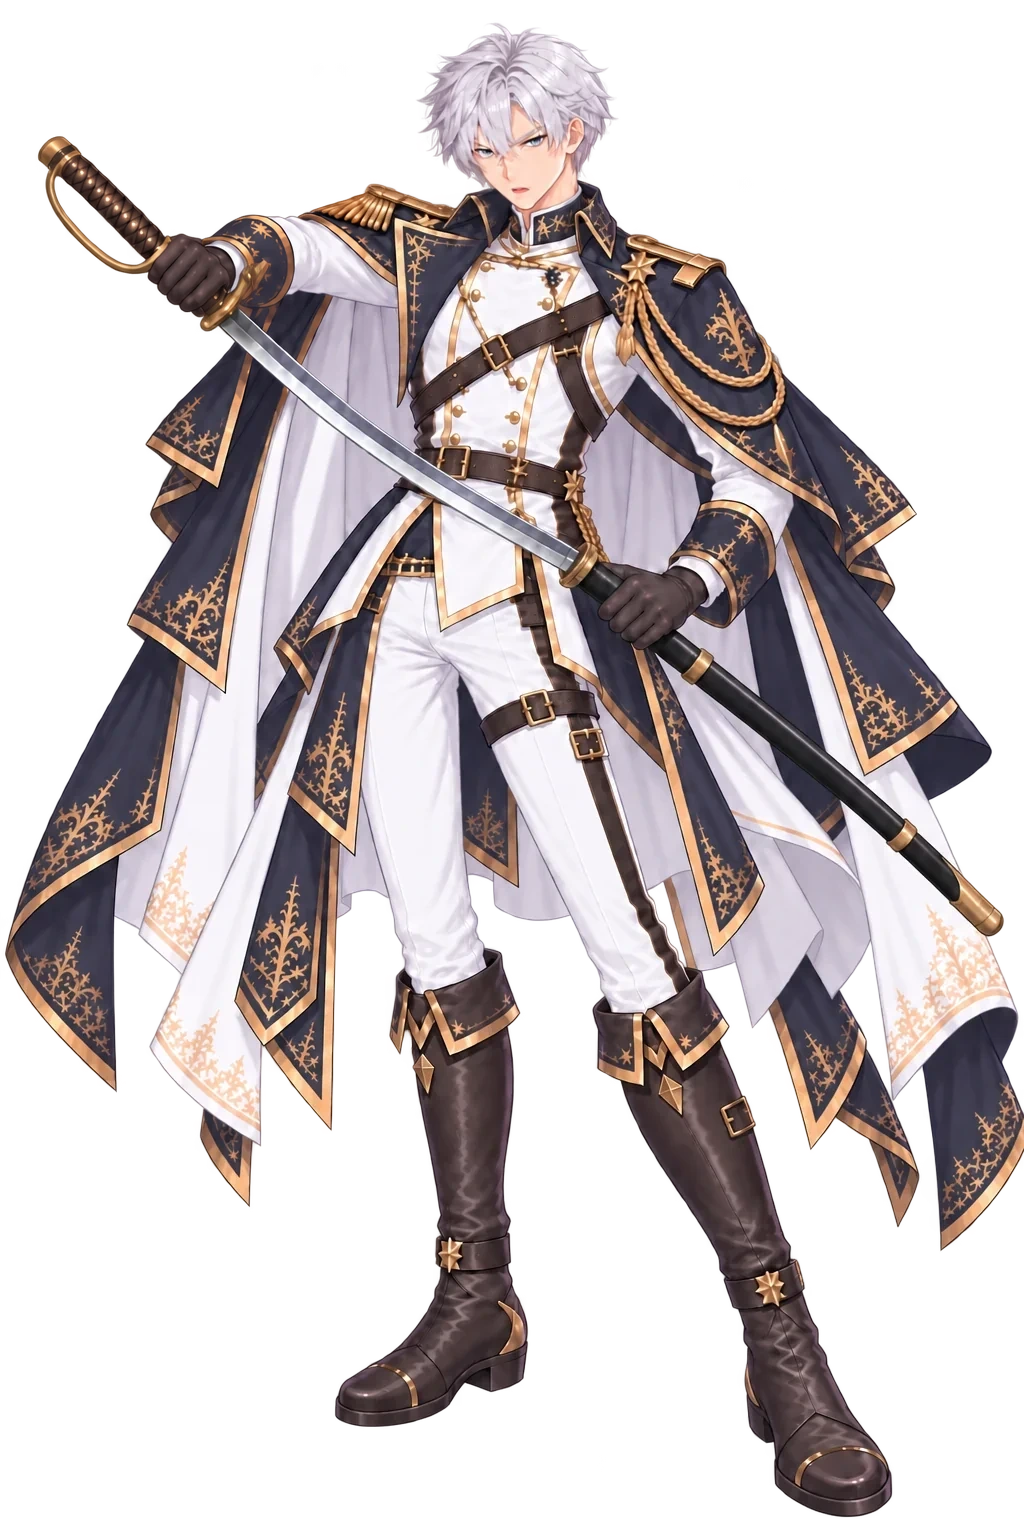
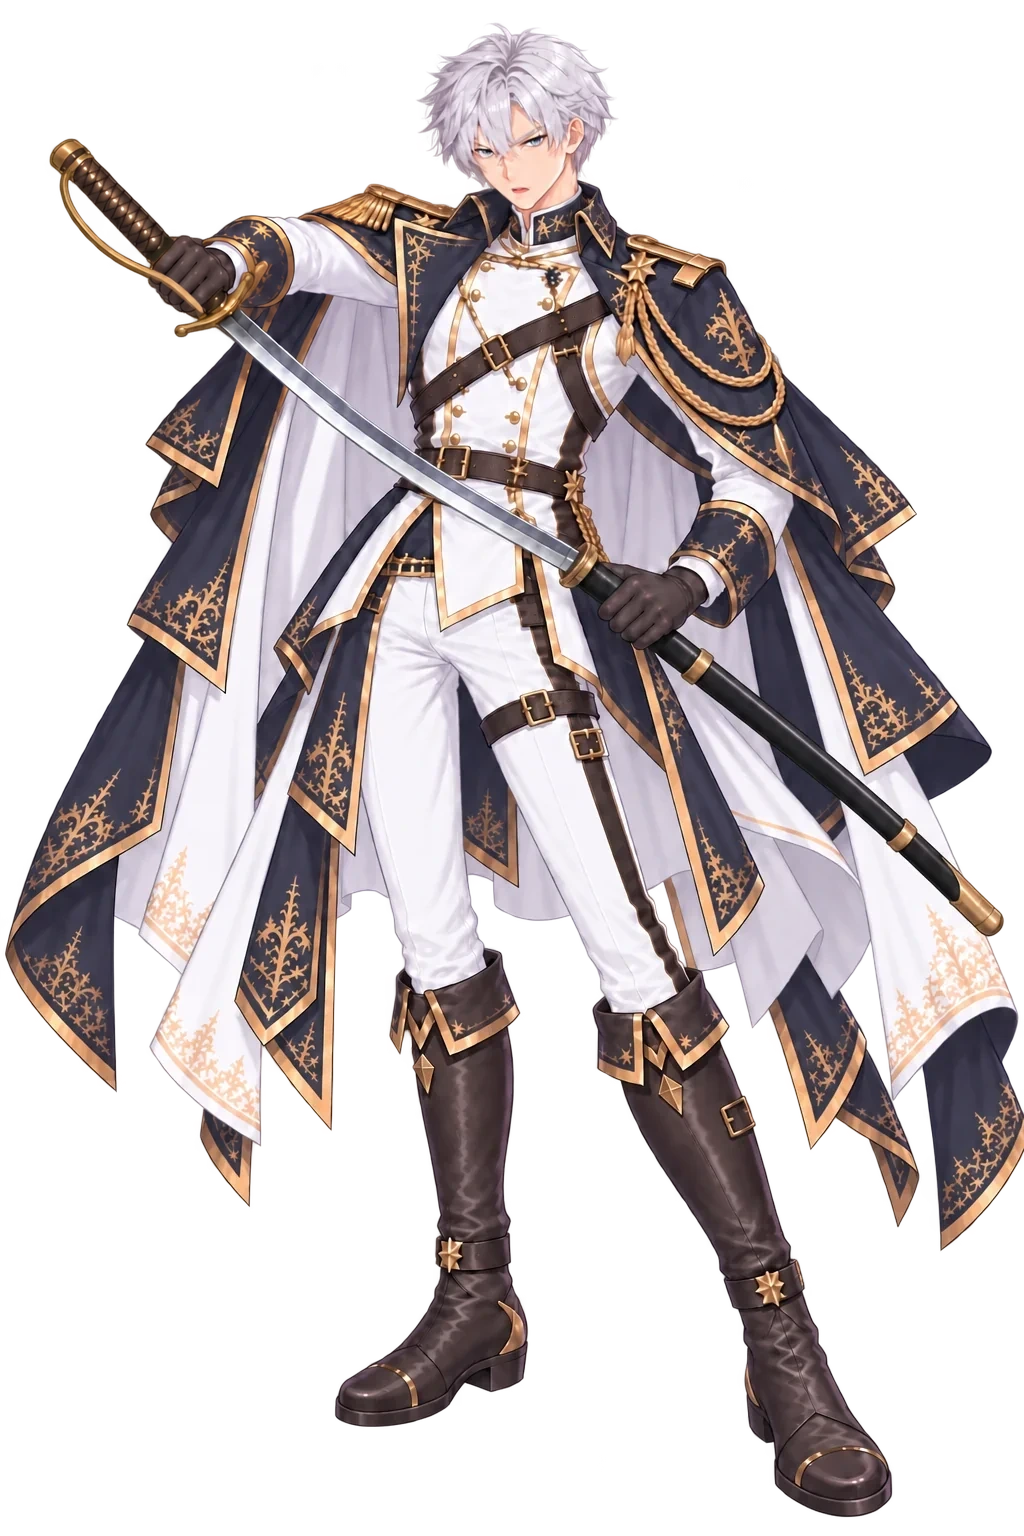
art(米夏): draw／drawopen 護手第四版 —— 弓經過指節前方接進鍔（照 Ray 畫線）
第三版的弓在拳頭左側就斷了。Ray 直接在刀柄裁圖上畫線：弓從柄頭掃下、
經過四指指節前方（手指與觀眾之間）、一路接進拳頭下方那片鍔。
把畫線圖上傳給 GPT、寫「照褐色線」，第四則一次過。

· 仍只拼刀柄＋拳頭區回原圖（臉 0 px、邊界帶色差 8.7、袖口無縫）
· q92 第二代、alpha 零誤差、近白 0%；top/bot 22/1516 不變
· v3 webp 走 recycle.sh；工單附三整理成四版病因＋驗收三件＋「附圖與文字要同一則送」的坑

⚠ 程式端要接：speakers.js draw ?v=2→3、drawopen 加 ?v=2（HANDOFF 標頭第 4 條已掛）

Changed region(s): [[0.0312, 0.0938, 0.375, 0.2812]]

diff --git a/resources/si/_misha_program_worklist.md b/resources/si/_misha_program_worklist.md
@@ -184,37 +184,39 @@ Ray 這一輪追加的一件 ＋ 早上留下的三件：
 ③ 我在這台先把提示詞送出、圖下載到 Windows 的 `~/Downloads`，Ray 手動搬進 repo 再由這邊量刀長／交件。
 
 
-## 附三、2026-09-24 晚（Windows 那台）：`draw` 護弓接到護手 —— ✔ 已交件（第三版）
+## 附三、2026-09-24 晚（Windows 那台）：`draw` 護弓接到護手 —— ✔ 已交件（第四版）
 
-Ray：「先做 draw 那張，護指接到護手」→ 退兩次：「仔細看圖 問題根本沒解決」「護弓要連到護手 手不可能握在護弓之上」。
+Ray：「先做 draw 那張，護指接到護手」→ 退三次：「仔細看圖 問題根本沒解決」「護弓要連到護手 手不可能握在護弓之上」
+→ 第三次 Ray 直接在刀柄裁圖上**畫了一條線**（`_originals/si/misha_si_draw_guardfix_ray_markup.png`）。
 
-⚠⚠⚠ **病不在弓的末端，在護手的位置**。原圖與前兩版的錯法：
-· v0（原圖）：鍔（帶 S 形鍔尖的黃銅片）畫在拳頭上方，弓的下端在拳頭下方另捲一圈 —— 護手被拳頭切成兩截。
+⚠⚠⚠ **四版的病，一次講清楚**（護手海軍軍刀的 D 形弓 ＝ 從柄頭出發、**經過拳頭前方蓋住指節**、接進鍔）：
+· v0（原圖）：鍔（帶 S 形鍔尖那片）畫在拳頭上方，弓的下端在拳頭下方另捲一圈。
 · v1：只把弓末端黏上去，結構照舊 ⇒ 退。
-· v2：拳頭改握在柄上了，但 **S 形鍔尖還在拳頭右上方、鍔穿過拳頭** ⇒ 拳頭等於握在護手上 ⇒ 退。
-· **v3（交件）**：沿刀的斜線由左上到右下 ＝ 柄頭 → 纏繩柄（拳頭握這裡，在弓裡面）→ **整片鍔含 S 形鍔尖都在拳頭右下方、刀身根部** → 刀身；弓從柄頭繞過指節外側接進鍔。
+· v2：拳頭改握在柄上，但 S 形鍔尖仍在拳頭右上方、鍔穿過拳頭 ⇒「手握在護弓之上」⇒ 退。
+· v3：鍔含鍔尖移到拳頭下方了，**但弓在拳頭左側就消失、沒經過指節前方接到鍔** ⇒ 弓是斷的 ⇒ 退。
+· **v4（交件）**：弓從柄頭沿外側掃下，**經過四根手指的指節前方（手指與觀眾之間）**，一路接進拳頭下方那片鍔的末端。
+  柄頭 → 纏繩柄（拳頭）→ 整片鍔含 S 形鍔尖在拳頭右下方刀身根部 → 刀身。
 
-**有效的提示詞寫法（第三則才過）**：
-1. 先逐條寫「原圖／上一張錯在哪」（S 形鍔尖在拳頭上方、鍔穿過拳頭、弓下端另捲一圈）。
-2. **用畫面方位講順序**：「這把刀是柄頭左上、刀尖右下的斜線，沿線由左上到右下必須是 ①柄頭 ②纏繩柄 ③拳頭 ④鍔（S 形鍔尖從鍔背側伸出，**所以鍔尖也在拳頭右下方**）⑤刀身」。
-3. ⛔ 清單：「拳頭上方除了纏繩柄與柄頭不可以出現任何黃銅護手零件」「鍔尖不可以出現在拳頭上方或旁邊」。
-只寫「弓要接到鍔」或「鍔在柄與刀身之間」都不夠 —— 模型會把 S 形鍔尖留在拳頭上方，然後把弓接到拳頭下面。**要把鍔尖的位置獨立點名。**
-同一串不附圖連送三則，一次都沒被擋。
+**最後有效的作法**：把 Ray 畫線的裁圖直接上傳給 GPT，寫「照附圖褐色線」＋「弓經過拳頭前方、蓋在指節上、在手指與觀眾之間」
+＋ ⛔「弓在拳頭旁邊停止／從拳頭後面繞過去看不見／下端懸空」。文字描述三則都沒把「弓在手指前方」講到位，**一張畫線圖一次過**。
+⚠ 附圖與文字要**同一則**送：`file_upload` 之後立刻 `btn.click()` 會把圖單獨送出去（文字還在框裡），GPT 只回文字；
+要等送出鈕可用、再確認框裡有字才點。
+同一串連送四則，一次都沒被擋。
 
-**拼接**：GPT 每一版都整張微重畫（臉區約 10%）⇒ 只取刀柄＋拳頭框（x 0~360、y 110~400）內的改動像素，
-膨脹 13 px、羽化 2.5 px，RGB 與 alpha 都在遮罩內取 GPT 版。臉區 0 px；邊界帶平均色差 5.2；框外不透明區改動 218 px（刀身沒位移）。
+**拼接**：GPT 每版都整張微重畫（臉區約 10%）⇒ 只取刀柄＋拳頭框（x 0~360、y 110~400）內的改動像素，
+膨脹 13 px、羽化 2.5 px，RGB 與 alpha 都在遮罩內取 GPT 版。臉區 0 px；邊界帶平均色差 8.7（袖口 4 倍看無縫）；框外改動 513 px。
 
 | 檔 | top | bot | fx（量測） | 交件 |
 |---|---|---|---|---|
-| `misha_si_draw.webp` | 22 | 1516 | 0.504（被刀柄拉偏，**沿用表上的 0.46**） | q92 第二代，alpha 零誤差、近白 0% |
+| `misha_si_draw.webp` | 22 | 1516 | 0.505（被刀柄拉偏，**沿用表上的 0.46**） | q92 第二代，alpha 零誤差、近白 0% |
 | `misha_si_drawopen.webp` | 22 | 1516 | 同上 | 同一張遮罩（兩張的刀柄區原本只差 5 px） |
 
-原檔：`_originals/si/misha_si_draw_guardfix_gpt.png`（GPT v3 整張）、`misha_si_draw_guardfix_src.png`／
-`misha_si_drawopen_guardfix_src.png`（拼接後母版）。舊 webp、v1、v2 都在 `_recycle/`。
+原檔：`_originals/si/misha_si_draw_guardfix_gpt.png`（GPT v4 整張）、`misha_si_draw_guardfix_src.png`／
+`misha_si_drawopen_guardfix_src.png`（拼接後母版）、`misha_si_draw_guardfix_ray_markup.png`（Ray 畫線）。
+舊 webp 與 v1～v3 都在 `_recycle/`。
 
 ⚠⚠ **程式端要接（鐵律 11）**：同名覆蓋 ⇒ `speakers.js:1486` `draw` 的 `?v=2`→`?v=3`；
 `speakers.js:1498` `drawopen` 現在**沒有版號**，要加 `?v=2`。`top/bot/fx` 都不用動。
 
-⚠ **驗收教訓（兩次退件換來的）**：看刀柄要對著設定圖核**零件的順序與相對位置**（柄頭→柄→拳頭→鍔→刀身），
-特別是 **S 形鍔尖在拳頭的哪一側** —— 它在拳頭上方就是錯，不管弓有沒有連上。3 倍裁切我兩次都「看過」，
-兩次都只看了線有沒有接，沒看順序。
+⚠ **驗收教訓**：看護手要核三件 —— ① 零件順序（柄頭→柄→拳頭→鍔→刀身）② S 形鍔尖在拳頭的哪一側
+③ **弓有沒有從指節前方經過、末端有沒有真的長進鍔**。三次退件分別對應這三條，我每次都只看了其中一條。

diff --git a/resources/_HANDOFF_ART_20260924.md b/resources/_HANDOFF_ART_20260924.md
@@ -132,16 +132,16 @@
 
 ---
 
-## 八、2026-09-24 晚（Windows 那台）：米夏 `draw` 護手 —— ✔ 交件（第三版）
+## 八、2026-09-24 晚（Windows 那台）：米夏 `draw` 護手 —— ✔ 交件（第四版）
 
-- 退兩次才過：v1 只黏弓的末端；v2 的 S 形鍔尖仍在拳頭上方（Ray：「手不可能握在護弓之上」）。
-  v3 把「柄頭→柄（拳頭）→整片鍔含鍔尖→刀身」的**畫面方位**寫死、並獨立點名鍔尖的位置才過。
-  提示詞寫法、數字、驗收教訓在 `si/_misha_program_worklist.md` **附三**。
+- 退三次才過：v1 只黏弓末端；v2 鍔尖仍在拳頭上方；v3 弓在拳頭旁邊就斷了。
+  **最後是 Ray 在裁圖上畫了一條線、我把那張圖丟給 GPT 才一次過** —— 文字描述三則都沒把「弓要經過指節前方」講到位。
+  四版的病因、有效作法、上傳＋文字要同一則送的坑、驗收三件，都在 `si/_misha_program_worklist.md` **附三**。
 - `draw`／`drawopen` 都交了（本機只拼刀柄＋拳頭區回原圖，臉 0 px 改動）。
 - **程式端要接**：`speakers.js` `draw` `?v=2→3`、`drawopen` 加 `?v=2`；取景值不變。
 - ⚠ 這台**沒有** `_originals/si/misha_si_close_natural_src.png`（§七寫「那台有」是錯的 —— `_originals/` 只有
   `SI_ext` 與 `_matting_eval`，下載夾也沒有），`close` 自然站姿要重新向 GPT 要。
 - 米夏待修剩下：`close` 自然站姿 → `closeopen` 重做；刀長不合格 7 張等 Ray。
-  ⚠ 那 7 張若重畫，**鍔與鍔尖的位置照附三那段寫**，不然會再犯同一個錯。
-- ChatGPT 那串：`https://chatgpt.com/c/6ab538d4-7dc4-83e8-a53d-8b8f0f3f3450`（原稿與刀圖都掛在最上面，
-  接下去做 `close` 可以直接沿用，不必重傳）。
+  ⚠ 那 7 張若重畫，**護手照附三寫，並附 Ray 畫線那張圖**，不然會再犯同一個錯。
+- ChatGPT 那串：`https://chatgpt.com/c/6ab538d4-7dc4-83e8-a53d-8b8f0f3f3450`（原稿、刀圖、Ray 畫線圖都在串裡，
+  接下去做 `close` 可以直接沿用）。
